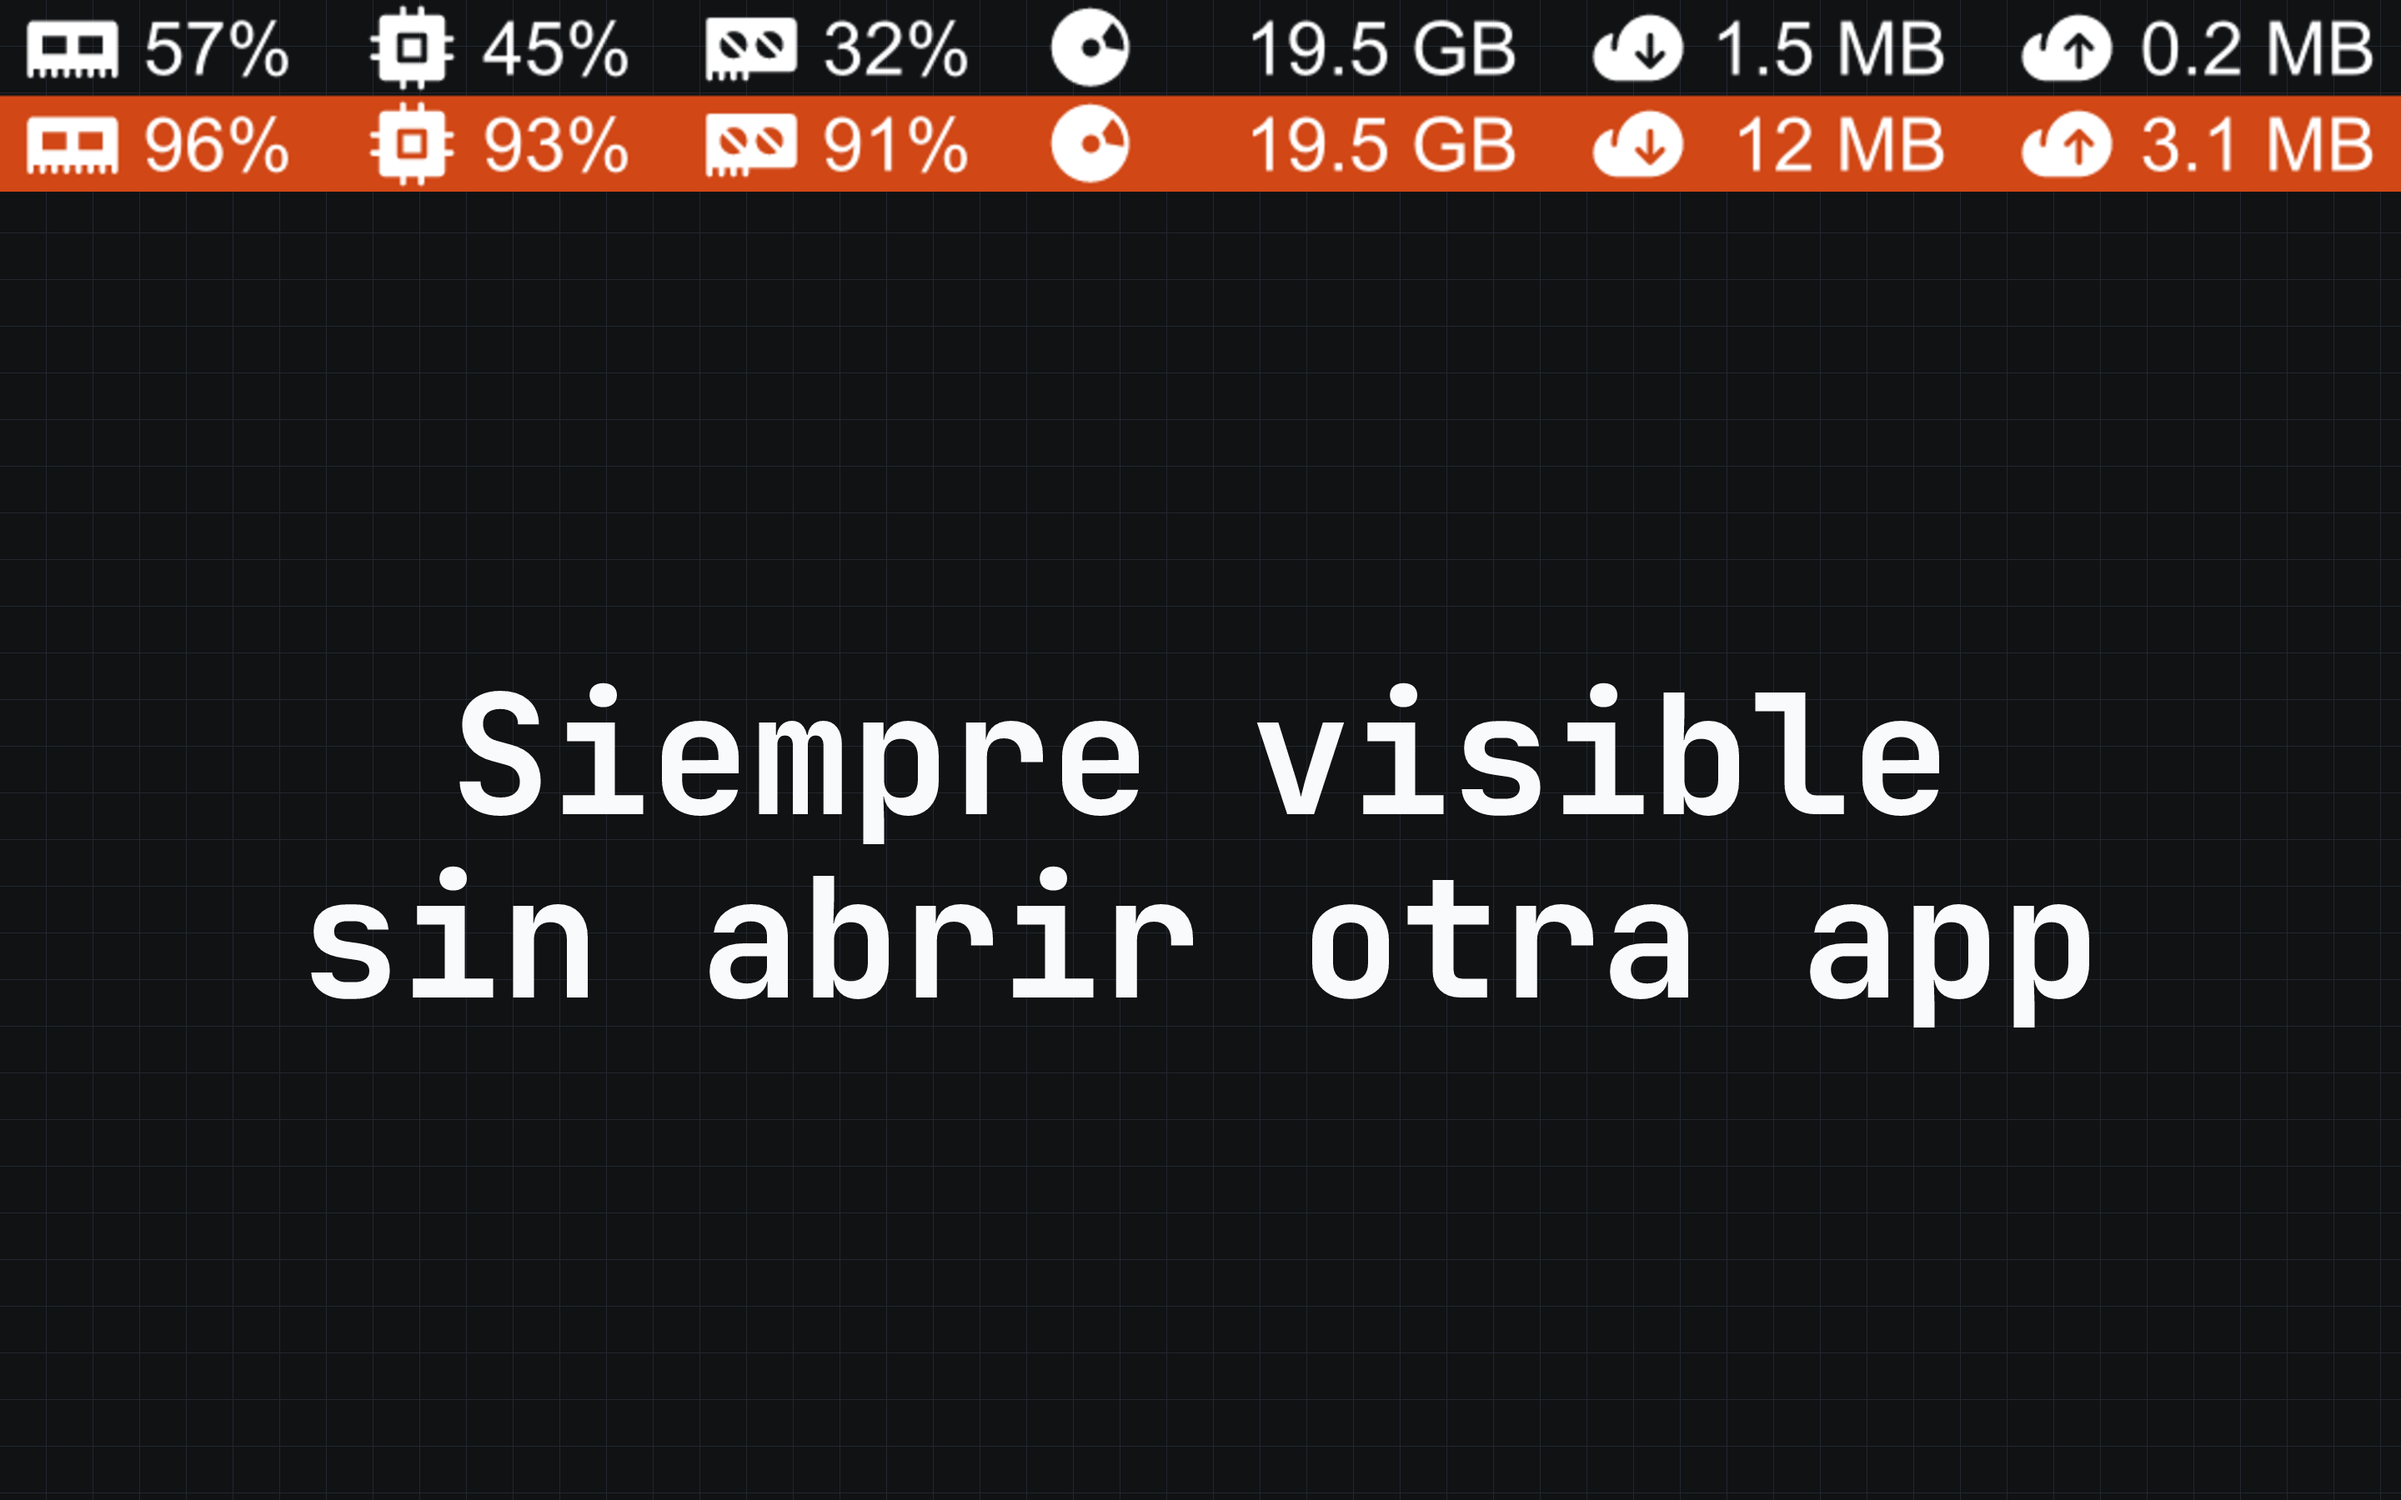
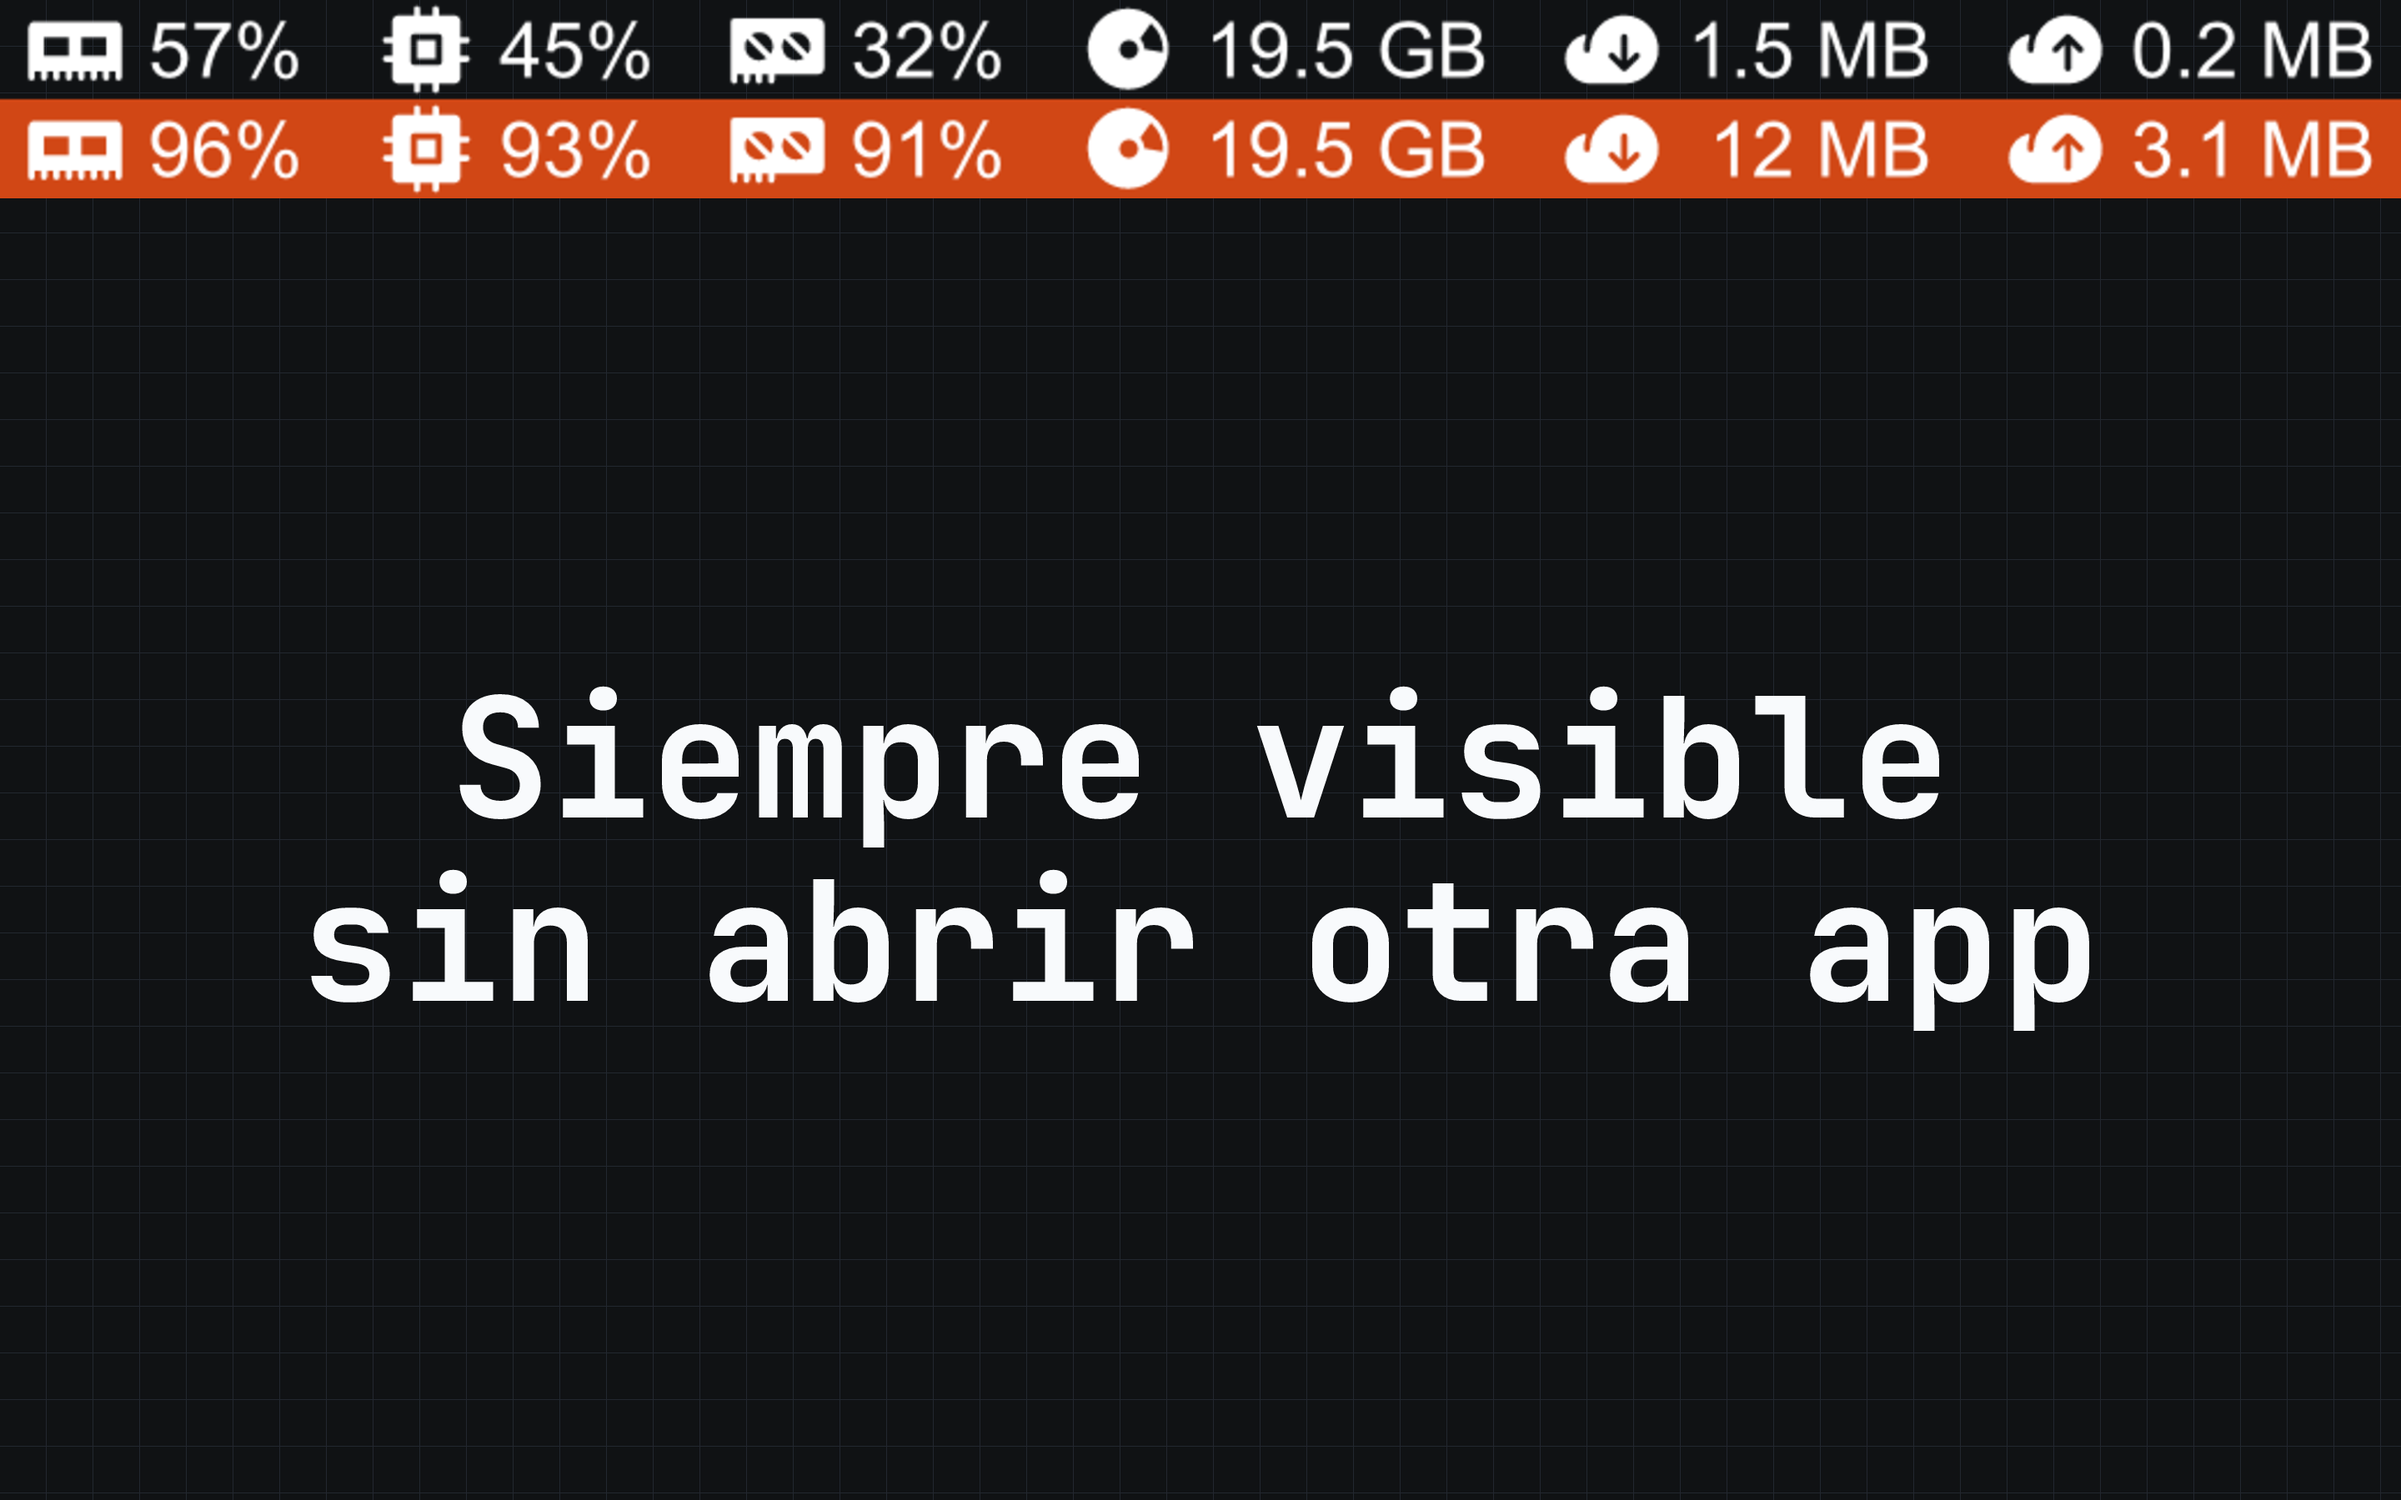
fix(tray): match visible storage spacing

diff --git a/src-tauri/src/tests.rs b/src-tauri/src/tests.rs
@@ -67,6 +67,27 @@ fn assert_render_size(buffer: &[u8], width: u32, height: u32, expected_width: u3
     assert_eq!(buffer.len(), (width * height * 4) as usize);
 }
 
+fn visible_gap_between_icon_and_text(
+    buffer: &[u8],
+    image_width: u32,
+    image_height: u32,
+    segment_left: u32,
+    segment_width: u32,
+    icon_width: u32,
+) -> u32 {
+    let icon_right = (segment_left..segment_left + icon_width)
+        .rev()
+        .find(|&x| (0..image_height).any(|y| buffer[((y * image_width + x) * 4 + 3) as usize] > 0))
+        .expect("rendered icon must contain visible pixels");
+    let text_left = (segment_left + icon_width..segment_left + segment_width)
+        .find(|&x| (0..image_height).any(|y| buffer[((y * image_width + x) * 4 + 3) as usize] > 0))
+        .expect("rendered label must contain visible pixels");
+
+    text_left
+        .checked_sub(icon_right + 1)
+        .expect("rendered label must not overlap its icon")
+}
+
 fn assert_sizing(sizing: tray_render::Sizing, expected: (u32, u32, u32, u32, u32, u32, f32)) {
     let (
         segment_width,
@@ -563,6 +584,18 @@ fn test_render_all_default_visible_metrics_width() {
     let mut buffer = Vec::new();
     let mut renderer = tray_render::TrayRenderer::new();
 
+    let (storage_only_width, _, _) = renderer.render_tray_icon_into(
+        &font,
+        &mut buffer,
+        &tray_render::RenderConfig {
+            show_cpu: false,
+            show_mem: false,
+            show_storage: true,
+            ..base_render_config()
+        },
+    );
+    let rendered_storage_segment_width = storage_only_width - APP_SIZING.edge_padding * 2;
+
     let (width, height, has_alert) = renderer.render_tray_icon_into(
         &font,
         &mut buffer,
@@ -579,7 +612,7 @@ fn test_render_all_default_visible_metrics_width() {
     let segment_count = percent_segments + 1 + network_segments;
     let expected_width = APP_SIZING.edge_padding * 2
         + (APP_SIZING.segment_width * percent_segments)
-        + APP_SIZING.segment_width_net
+        + rendered_storage_segment_width
         + (APP_SIZING.segment_width_net * network_segments)
         + (APP_SIZING.segment_gap * (segment_count - 1));
 
@@ -590,7 +623,10 @@ fn test_render_all_default_visible_metrics_width() {
 #[test]
 fn test_storage_visual_geometry_matches_network_and_fits_extremes() {
     let font = load_system_font().expect("test font required");
-    let labels = ["0.0 KB", "38.7 GB", "18.4 EB"];
+    let labels = [
+        "0.0 KB", "999 KB", "1.0 MB", "999 MB", "1.0 GB", "38.7 GB", "999 GB", "1.0 TB", "999 TB",
+        "1.0 PB", "999 PB", "1.0 EB", "18.4 EB",
+    ];
 
     for sizing in [tray_render::SIZING_MACOS, tray_render::SIZING_LINUX] {
         let mut renderer = tray_render::TrayRenderer::new();
@@ -615,15 +651,14 @@ fn test_storage_visual_geometry_matches_network_and_fits_extremes() {
         let rendered_network_segment_width =
             (network_width - sizing.edge_padding * 2 - sizing.segment_gap) / 2;
         assert_eq!(network_height, sizing.icon_height);
-        let network_available_width = (rendered_network_segment_width - sizing.icon_height) as f32;
-        let network_scale =
-            tray_render::fit_text_scale(&font, "0.0 KB", sizing.font_size, network_available_width);
-        let network_label_width: f32 = font
-            .layout("0.0 KB", network_scale, rusttype::point(0.0, 0.0))
-            .map(|glyph| glyph.unpositioned().h_metrics().advance_width)
-            .sum();
-        let network_inner_gap = network_available_width - network_label_width;
-
+        let network_visible_gap = visible_gap_between_icon_and_text(
+            &buffer,
+            network_width,
+            network_height,
+            sizing.edge_padding,
+            rendered_network_segment_width,
+            sizing.icon_height,
+        );
         for label in labels {
             let (width, height, has_alert) = renderer.render_tray_icon_into(
                 &font,
@@ -658,17 +693,18 @@ fn test_storage_visual_geometry_matches_network_and_fits_extremes() {
                 .map(|glyph| glyph.unpositioned().h_metrics().advance_width)
                 .sum();
             assert!(storage_label_width <= storage_available_width + 0.01);
-            let storage_inner_gap = storage_available_width - storage_label_width;
-            assert!(
-                (storage_inner_gap - network_inner_gap).abs() <= 1.0,
-                "storage label {label:?} inner gap {storage_inner_gap} must match network gap {network_inner_gap}"
+            let storage_visible_gap = visible_gap_between_icon_and_text(
+                &buffer,
+                width,
+                height,
+                sizing.edge_padding,
+                rendered_storage_segment_width,
+                sizing.icon_height,
             );
-            if label == "0.0 KB" {
-                assert_eq!(
-                    rendered_storage_segment_width,
-                    rendered_network_segment_width
-                );
-            }
+            assert!(
+                storage_visible_gap.abs_diff(network_visible_gap) <= 1,
+                "storage label {label:?} visible gap {storage_visible_gap} must match network gap {network_visible_gap} within one raster pixel"
+            );
 
             let ink_columns = buffer
                 .chunks_exact(4)

diff --git a/src-tauri/src/tray_render.rs b/src-tauri/src/tray_render.rs
@@ -118,6 +118,18 @@ fn text_width(font: &Font, text: &str, scale: Scale) -> f32 {
         .sum()
 }
 
+fn text_left_pixel(
+    font: &Font,
+    text: &str,
+    scale: Scale,
+    start_x: f32,
+    baseline: f32,
+) -> Option<i32> {
+    font.layout(text, scale, rusttype::point(start_x, baseline))
+        .filter_map(|glyph| glyph.pixel_bounding_box().map(|bounds| bounds.min.x))
+        .min()
+}
+
 pub(crate) fn fit_text_scale(font: &Font, text: &str, font_size: f32, max_width: f32) -> Scale {
     let base_scale = Scale::uniform(font_size);
     let width = text_width(font, text, base_scale);
@@ -129,16 +141,35 @@ pub(crate) fn fit_text_scale(font: &Font, text: &str, font_size: f32, max_width:
     }
 }
 
-fn storage_segment_width(font: &Font, text: &str, sizing: Sizing) -> u32 {
+fn storage_segment_width(
+    font: &Font,
+    text: &str,
+    sizing: Sizing,
+    baseline: f32,
+    storage_icon_right: u32,
+    network_icon_right: u32,
+) -> u32 {
     let scale = Scale::uniform(sizing.font_size);
     let network_text_width = text_width(font, "0.0 KB", scale);
-    let network_inner_gap =
-        (sizing.segment_width_net as f32 - sizing.icon_height as f32 - network_text_width).max(0.0);
-    let desired_width =
-        (sizing.icon_height as f32 + network_inner_gap + text_width(font, text, scale)).ceil()
-            as u32;
+    let Some(network_text_left) = text_left_pixel(
+        font,
+        "0.0 KB",
+        scale,
+        sizing.segment_width_net as f32 - network_text_width,
+        baseline,
+    ) else {
+        return sizing.segment_width_net;
+    };
+    let target_gap = network_text_left - network_icon_right as i32 - 1;
 
-    desired_width.clamp(sizing.segment_width_net, sizing.segment_width_storage)
+    let text_width = text_width(font, text, scale);
+    (sizing.icon_height..=sizing.segment_width_storage)
+        .min_by_key(|&width| {
+            let text_left = text_left_pixel(font, text, scale, width as f32 - text_width, baseline)
+                .unwrap_or(storage_icon_right as i32 + 1);
+            (text_left - storage_icon_right as i32 - 1).abs_diff(target_gap)
+        })
+        .unwrap_or(sizing.segment_width_net)
 }
 
 pub(crate) fn render_svg_icon(svg_data: &str, size: u32, color: Color) -> Vec<u8> {
@@ -187,6 +218,7 @@ pub(crate) fn render_svg_icon(svg_data: &str, size: u32, color: Color) -> Vec<u8
 
 struct IconCache {
     icons: HashMap<(IconType, Color), Vec<u8>>,
+    rightmost_ink: HashMap<IconType, u32>,
 }
 
 impl IconCache {
@@ -208,11 +240,34 @@ impl IconCache {
             }
         }
 
-        Self { icons }
+        let rightmost_ink = icon_svgs
+            .into_iter()
+            .map(|(icon_type, _)| {
+                let pixels = icons
+                    .get(&(icon_type, (255, 255, 255)))
+                    .expect("white icon cached");
+                let right = pixels
+                    .chunks_exact(4)
+                    .enumerate()
+                    .filter_map(|(index, pixel)| (pixel[3] > 0).then_some(index as u32 % size))
+                    .max()
+                    .expect("cached icon contains visible pixels");
+                (icon_type, right)
+            })
+            .collect();
+
+        Self {
+            icons,
+            rightmost_ink,
+        }
     }
 
     fn get(&self, icon_type: IconType, color: Color) -> &[u8] {
         self.icons.get(&(icon_type, color)).expect("icon cached")
+    }
+
+    fn rightmost_ink(&self, icon_type: IconType) -> u32 {
+        self.rightmost_ink[&icon_type]
     }
 }
 
@@ -285,7 +340,23 @@ impl TrayRenderer {
         }
 
         let sizing = config.sizing;
-        let storage_width = storage_segment_width(font, config.storage_available_str, sizing);
+        let scale = Scale::uniform(sizing.font_size);
+        let baseline = self.baseline(font, sizing);
+        let (storage_icon_right, network_icon_right) = {
+            let icon_cache = self.icon_cache(sizing.icon_height);
+            (
+                icon_cache.rightmost_ink(IconType::Storage),
+                icon_cache.rightmost_ink(IconType::ArrowDown),
+            )
+        };
+        let storage_width = storage_segment_width(
+            font,
+            config.storage_available_str,
+            sizing,
+            baseline,
+            storage_icon_right,
+            network_icon_right,
+        );
 
         let mut segments = Vec::with_capacity(6);
         for icon in METRIC_ICON_ORDER {
@@ -374,9 +445,6 @@ impl TrayRenderer {
                 *p = pixel;
             }
         }
-
-        let scale = Scale::uniform(sizing.font_size);
-        let baseline = self.baseline(font, sizing);
 
         let icon_cache = self.icon_cache(sizing.icon_height);
 
